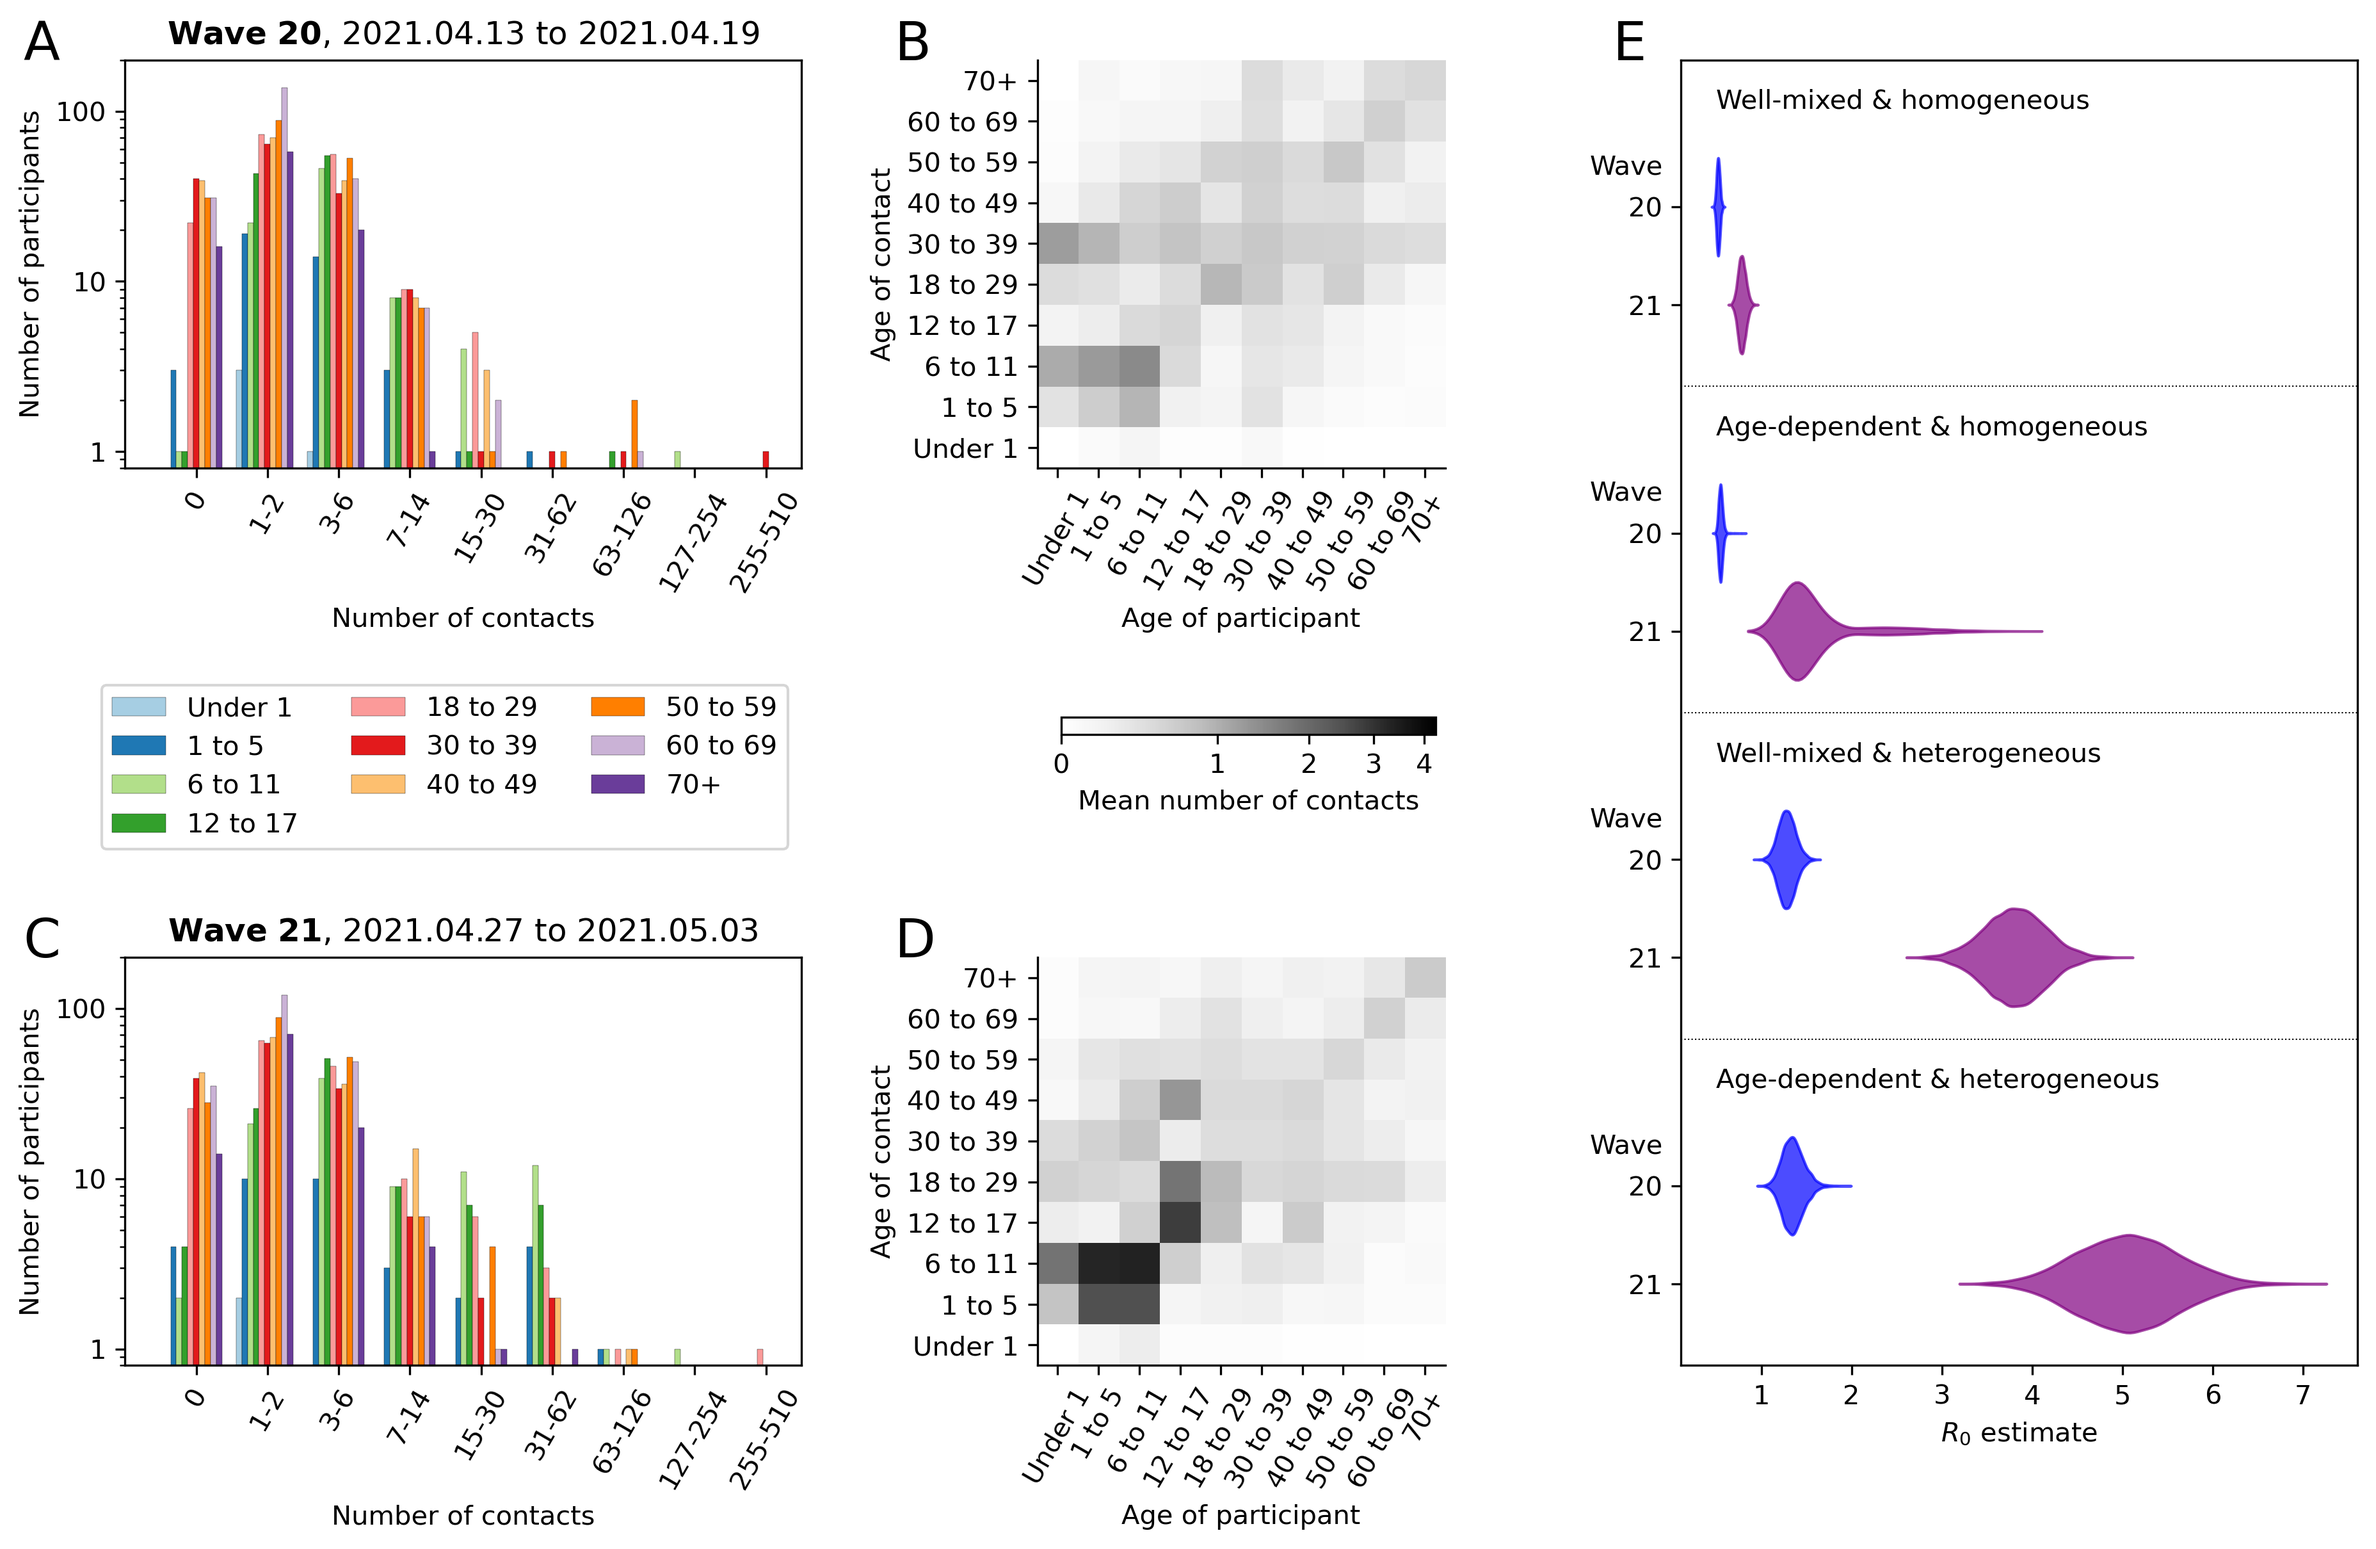
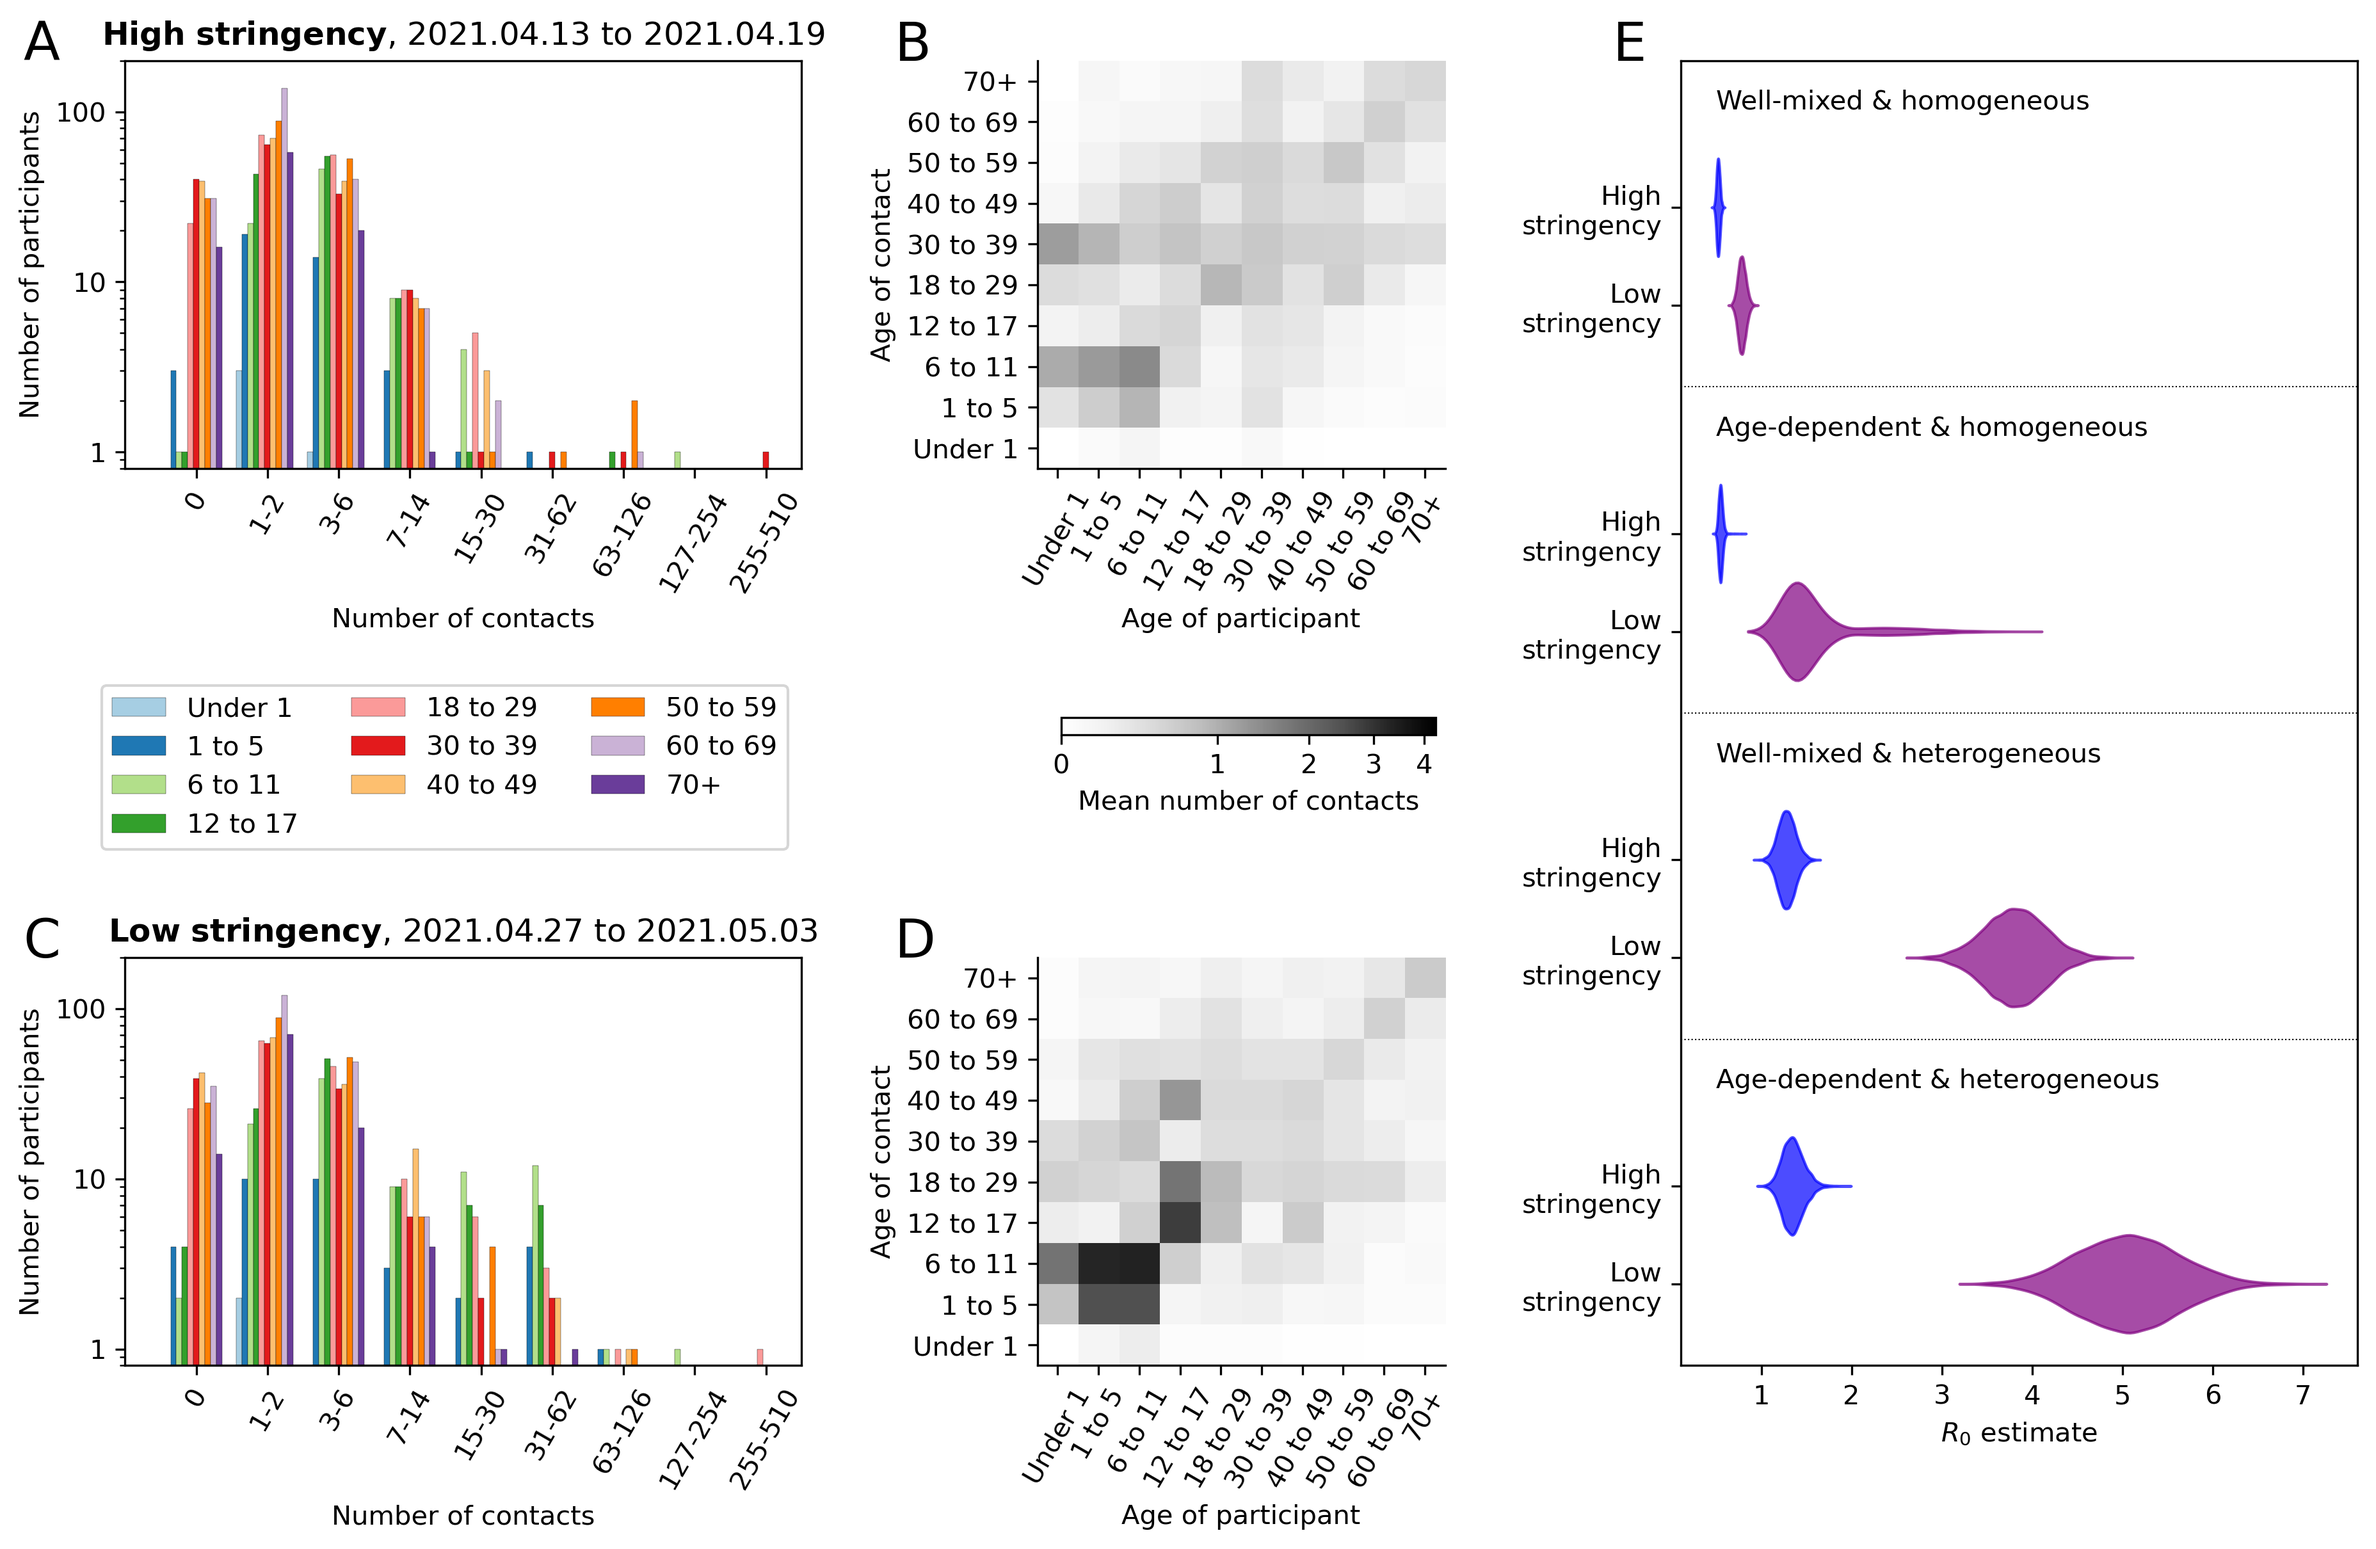
fig names changed

diff --git a/code/plot_figure3.py b/code/plot_figure3.py
@@ -28,7 +28,7 @@ ax=fig.add_subplot(gs[0,0])
 plt.text(-0.15,1,'A',backgroundcolor='w',size=20, transform=ax.transAxes)
 
 
-plt.title('$\\bf{Wave~'+str(wave)+'}$, '+plot_data[wave]['from']+' to '+plot_data[wave]['to'])
+plt.title('$\\bf{High~stringency}$, '+plot_data[wave]['from']+' to '+plot_data[wave]['to'])
 colors=plt.cm.Paired(np.linspace(0, 1, 12))
 # start at the bottom
 #bottom=[0 for i in range(10)]
@@ -56,7 +56,7 @@ ax=fig.add_subplot(gs[2,0])
 
 plt.text(-0.15,1,'C',backgroundcolor='w',size=20, transform=ax.transAxes)
 
-plt.title('$\\bf{Wave~'+str(wave)+'}$, '+plot_data[wave]['from']+' to '+plot_data[wave]['to'])
+plt.title('$\\bf{Low~stringency}$, '+plot_data[wave]['from']+' to '+plot_data[wave]['to'])
 colors=plt.cm.Paired(np.linspace(0, 1, 12))
 # start at the bottom
 #bottom=[0 for i in range(10)]
@@ -175,14 +175,14 @@ y=0.6
 for x in [1+y,2+y,3+y]:
     plt.axhline(x,linestyle=':',linewidth=0.5,color='k')
 plt.ylim([y,4+y])
-plt.yticks([4+z,4-z,3+z,3-z,2+z,2-z,1+z,1-z],['20','21','20','21','20','21','20','21'])
+plt.yticks([4+z,4-z,3+z,3-z,2+z,2-z,1+z,1-z],['High\nstringency','Low\nstringency','High\nstringency','Low\nstringency','High\nstringency','Low\nstringency','High\nstringency','Low\nstringency'])
 
 
 i=0
 for model in lstyle.keys():
     i=i+1
     plt.text(0.5,5-i+3*z,model)
-    plt.text(-0.9,5.25-i,'Wave')#,rotation=90)
+    #plt.text(-0.9,5.25-i,'Wave')#,rotation=90)
 #plt.xticks([i-0.3 for i in range(1,5)],lstyle.keys(),rotation=60)
 #plt.legend(title='$\\bf{Model~assumptions:}$                         ',bbox_to_anchor=(0.7, -0.3))
 plt.savefig('../figures/figure3.png',format='png',dpi=300,bbox_inches='tight')

diff --git a/README.md b/README.md
@@ -18,9 +18,9 @@ Running *combined_method_with_vs_without_outliers.py* with *filtered=True* creat
 
 *process_data_for_contact_matrix.py* creates *data_for_matrix_plots.p*. Takes a few seconds.\
 
-*process_data_for_contact_distribution* creates *data_for_contact_distribution_plots.p*. Takes a few seconds.\
+*process_data_for_contact_distribution.py* creates *data_for_contact_distribution_plots.p*. Takes a few seconds.\
 
-*four_methods_applied_to_survey_data* creates *data_for_R0_bootsrap_plots.p*. Takes around five minutes. \
+*four_methods_applied_to_survey_data.py* creates *data_for_R0_bootsrap_plots.p*. Takes around five minutes. \
 
 *plot_figure2.py* requires *data_for_matrix_plots.p*, *data_for_contact_distribution_plots.p*, *data_for_R0_bootsrap_plots.p*. Takes a few seconds.\
 
